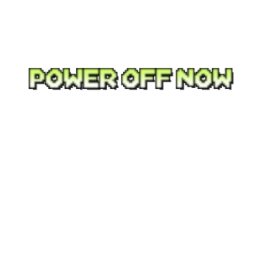
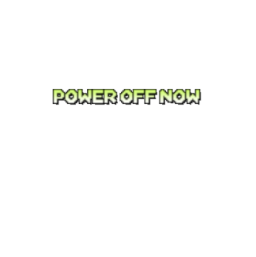
Added more realism

Changed region(s): [[0.0938, 0.249, 0.9375, 0.4358]]

diff --git a/source/main.cpp b/source/main.cpp
@@ -69,9 +69,9 @@ int main(void)
 		if (kicks <= 0 && brightness < 16 && flipflop) brightness++; // fade out
 		x%=512; // lcm of 256 and 512 is 512, repeating pattern after scrolling 512 pixels
 		flipflop ^= 1;
+		if (frames == 0) kicks--;
 		frames++;
 		frames %= period * 2;
-		if (frames == period) kicks--;
 		if (frames > period && kicks > 0) bgHide(poweroffBg);
 		else bgShow(poweroffBg);
 		setBrightness(3, brightness);

diff --git a/data/edit.py b/data/edit.py
@@ -1,0 +1,11 @@
+from PIL import Image
+
+with Image.open("../old/noparty-old.png") as im:
+    pix = im.load()
+    for y in range(im.height):
+        for x in range(im.width):
+            # print(pix[x, y])
+            if pix[x, y][3] < 128:
+                pix[x, y] = (0, 0, 0, 0)
+    im.show()
+    im.save("noparty.png")
